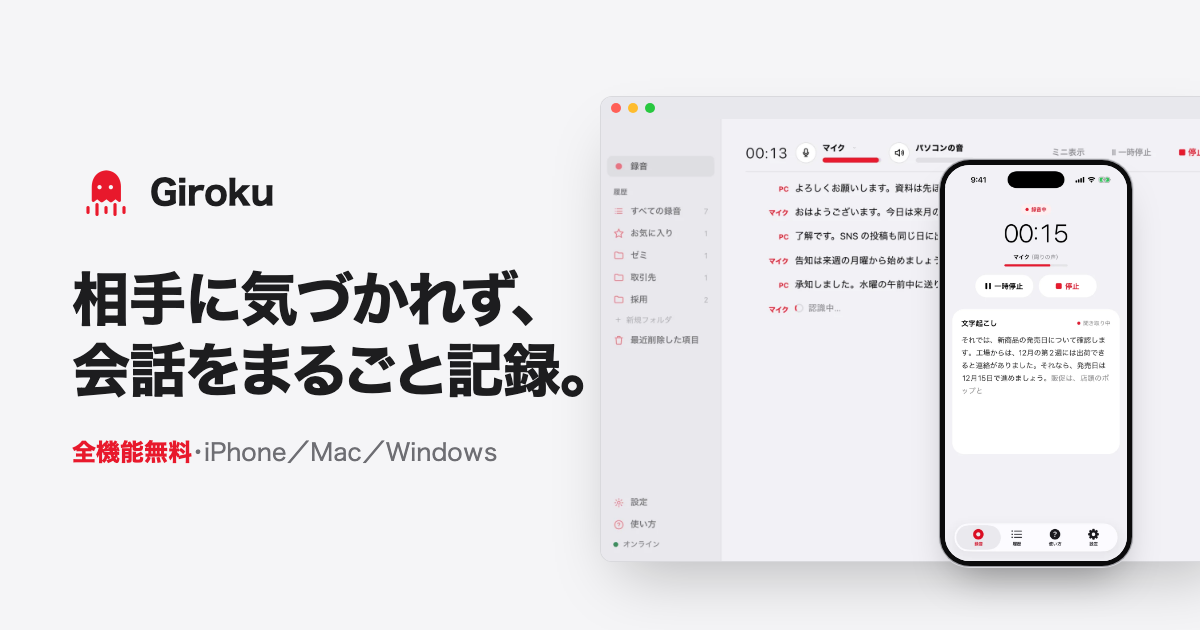
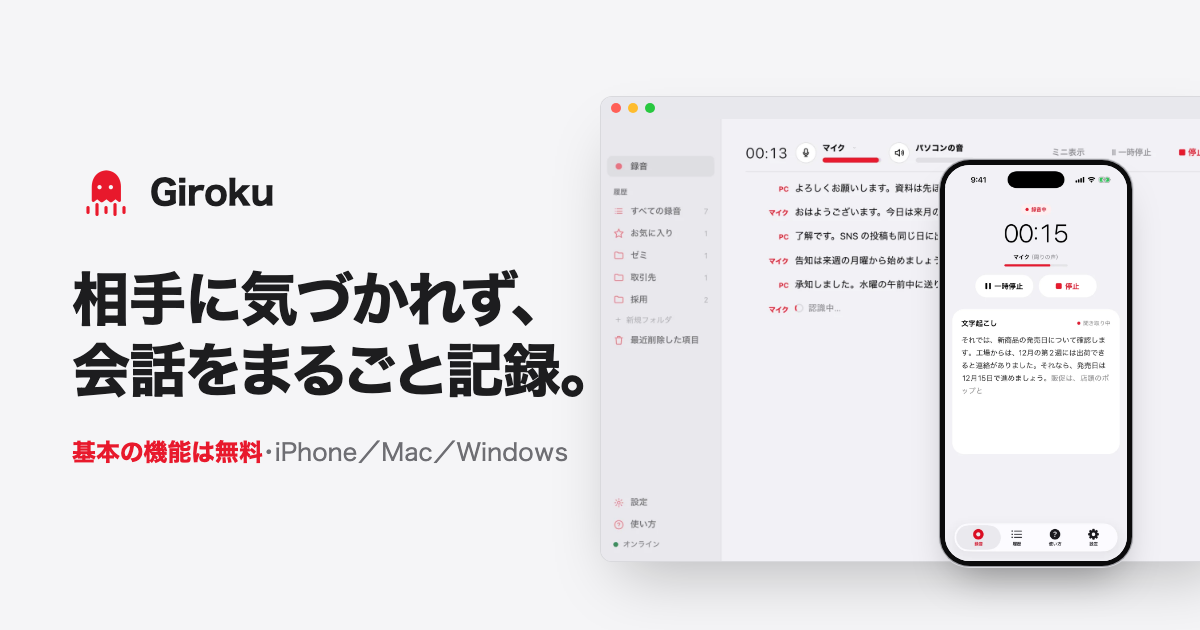
LP：料金の見出しを「基本の機能は、すべて無料。」に、ダウンロードの見出しを「今すぐ、はじめよう。」に。見出しの大きさをそろえる、議事録の iPhone の写真を撮り直し、共有画像も更新

Changed region(s): [[0.0617, 0.6937, 0.4625, 0.754]]

diff --git a/app/layout.tsx b/app/layout.tsx
@@ -7,7 +7,7 @@ const GA_ID = "G-DQZVBGF3LS";
 
 export const metadata: Metadata = {
   title: "Giroku（ギロク）— 相手に気づかれない議事録アプリ",
-  description: "会議に Bot を入れず、録音するだけ。会議も講義も、端末の中で文字起こしし、AI が議事録にまとめます。iPhone・Mac・Windows。全機能無料。",
+  description: "会議に Bot を入れず、録音するだけ。会議も講義も、端末の中で文字起こしし、AI が議事録にまとめます。iPhone・Mac・Windows。基本の機能は無料。",
   // iPhone の Safari では、ページの上に App Store の「入手」の帯が出る
   itunes: { appId: "6826128219" },
   metadataBase: new URL("https://giroku.naoya-tsuji.com"),
@@ -15,7 +15,7 @@ export const metadata: Metadata = {
   keywords: ["議事録", "AI議事録", "文字起こし", "録音", "会議", "オンライン会議", "講義", "無料"],
   openGraph: {
     title: "Giroku — 相手に気づかれない議事録アプリ",
-    description: "会議に Bot を入れず、録音するだけ。端末の中で文字起こしし、AI が議事録に。iPhone・Mac・Windows。全機能無料。",
+    description: "会議に Bot を入れず、録音するだけ。端末の中で文字起こしし、AI が議事録に。iPhone・Mac・Windows。基本の機能は無料。",
     url: "https://giroku.naoya-tsuji.com",
     siteName: "Giroku",
     locale: "ja_JP",
@@ -24,7 +24,7 @@ export const metadata: Metadata = {
   twitter: {
     card: "summary_large_image",
     title: "Giroku — 相手に気づかれない議事録アプリ",
-    description: "会議に Bot を入れず、録音するだけ。端末の中で文字起こしし、AI が議事録に。iPhone・Mac・Windows。全機能無料。",
+    description: "会議に Bot を入れず、録音するだけ。端末の中で文字起こしし、AI が議事録に。iPhone・Mac・Windows。基本の機能は無料。",
   },
 };
 

diff --git a/app/page.tsx b/app/page.tsx
@@ -164,7 +164,7 @@ export default function Home(): ReactElement {
           <h2 className="h-center-title h-trio-title" data-reveal>録音から議事録まで、これひとつで。</h2>
           <div className="h-trio" data-reveal>
             <figure>
-              <PhoneShot src="/shots/ios-04.webp" alt="AI 議事録。概要・決まったこと・やることが並ぶ" />
+              <PhoneShot src="/shots/ios-04-minutes.webp" alt="AI 議事録。概要・決まったこと・やることが並ぶ" />
               <figcaption><b>AI が議事録をつくる</b>話のトピックごとに見出しを立てて、要点をまとめます</figcaption>
             </figure>
             <figure>
@@ -179,7 +179,7 @@ export default function Home(): ReactElement {
         </Section>
 
         <Section id="pricing">
-          <h2 className="h-center-title" data-reveal>全機能、無料。</h2>
+          <h2 className="h-center-title" data-reveal>基本の機能は、すべて無料。</h2>
           <div className="h-plans" data-reveal>
             <article className="h-plan">
               <h3>無料</h3>
@@ -218,7 +218,7 @@ export default function Home(): ReactElement {
 
         <section id="download" className="h-section h-section-gray h-download">
           <div className="h-inner">
-            <h2 data-reveal>今すぐ、無料で。</h2>
+            <h2 data-reveal>今すぐ、はじめよう。</h2>
             <div className="h-stores" data-reveal>
               <div className="h-store">
                 <h3>iPhone</h3>

diff --git a/app/home.css b/app/home.css
@@ -40,7 +40,8 @@
   color: var(--h-ink);
 }
 .h-page h1 { font-size: clamp(34px, 7vw, 80px); }
-.h-page h2 { font-size: clamp(30px, 4.6vw, 52px); }
+/* 区切りの見出しはすべて同じ大きさ（2026-11-08 本人：大きさがばらばら・圧迫感。小さい方にそろえる） */
+.h-page h2 { font-size: clamp(26px, 3.4vw, 40px); }
 .h-page h3 { font-size: 21px; font-weight: 700; letter-spacing: -0.01em; }
 .h-page :where(p) { font-size: clamp(17px, 1.5vw, 19px); }
 /* 1文字だけ次の行に落ちないように：日本語は文節で折り返し、最後の行が短くなりすぎないよう整える */
@@ -315,7 +316,7 @@
 .h-trio figure { margin: 0; text-align: center; }
 .h-trio figcaption { margin-top: 14px; font-weight: 600; font-size: 16px; }
 /* 圧迫感を減らす（2026-11-08）：見出しは一回り小さく余白を広く、iPhone は小さめにして下3分の1を背景に溶かす */
-.h-trio-title { font-size: clamp(26px, 3.4vw, 40px) !important; margin-bottom: clamp(40px, 5vw, 64px); }
+.h-trio-title { margin-bottom: clamp(40px, 5vw, 64px); }
 .h-trio .h-phone {
   width: 80%;
   margin: 0 auto;
